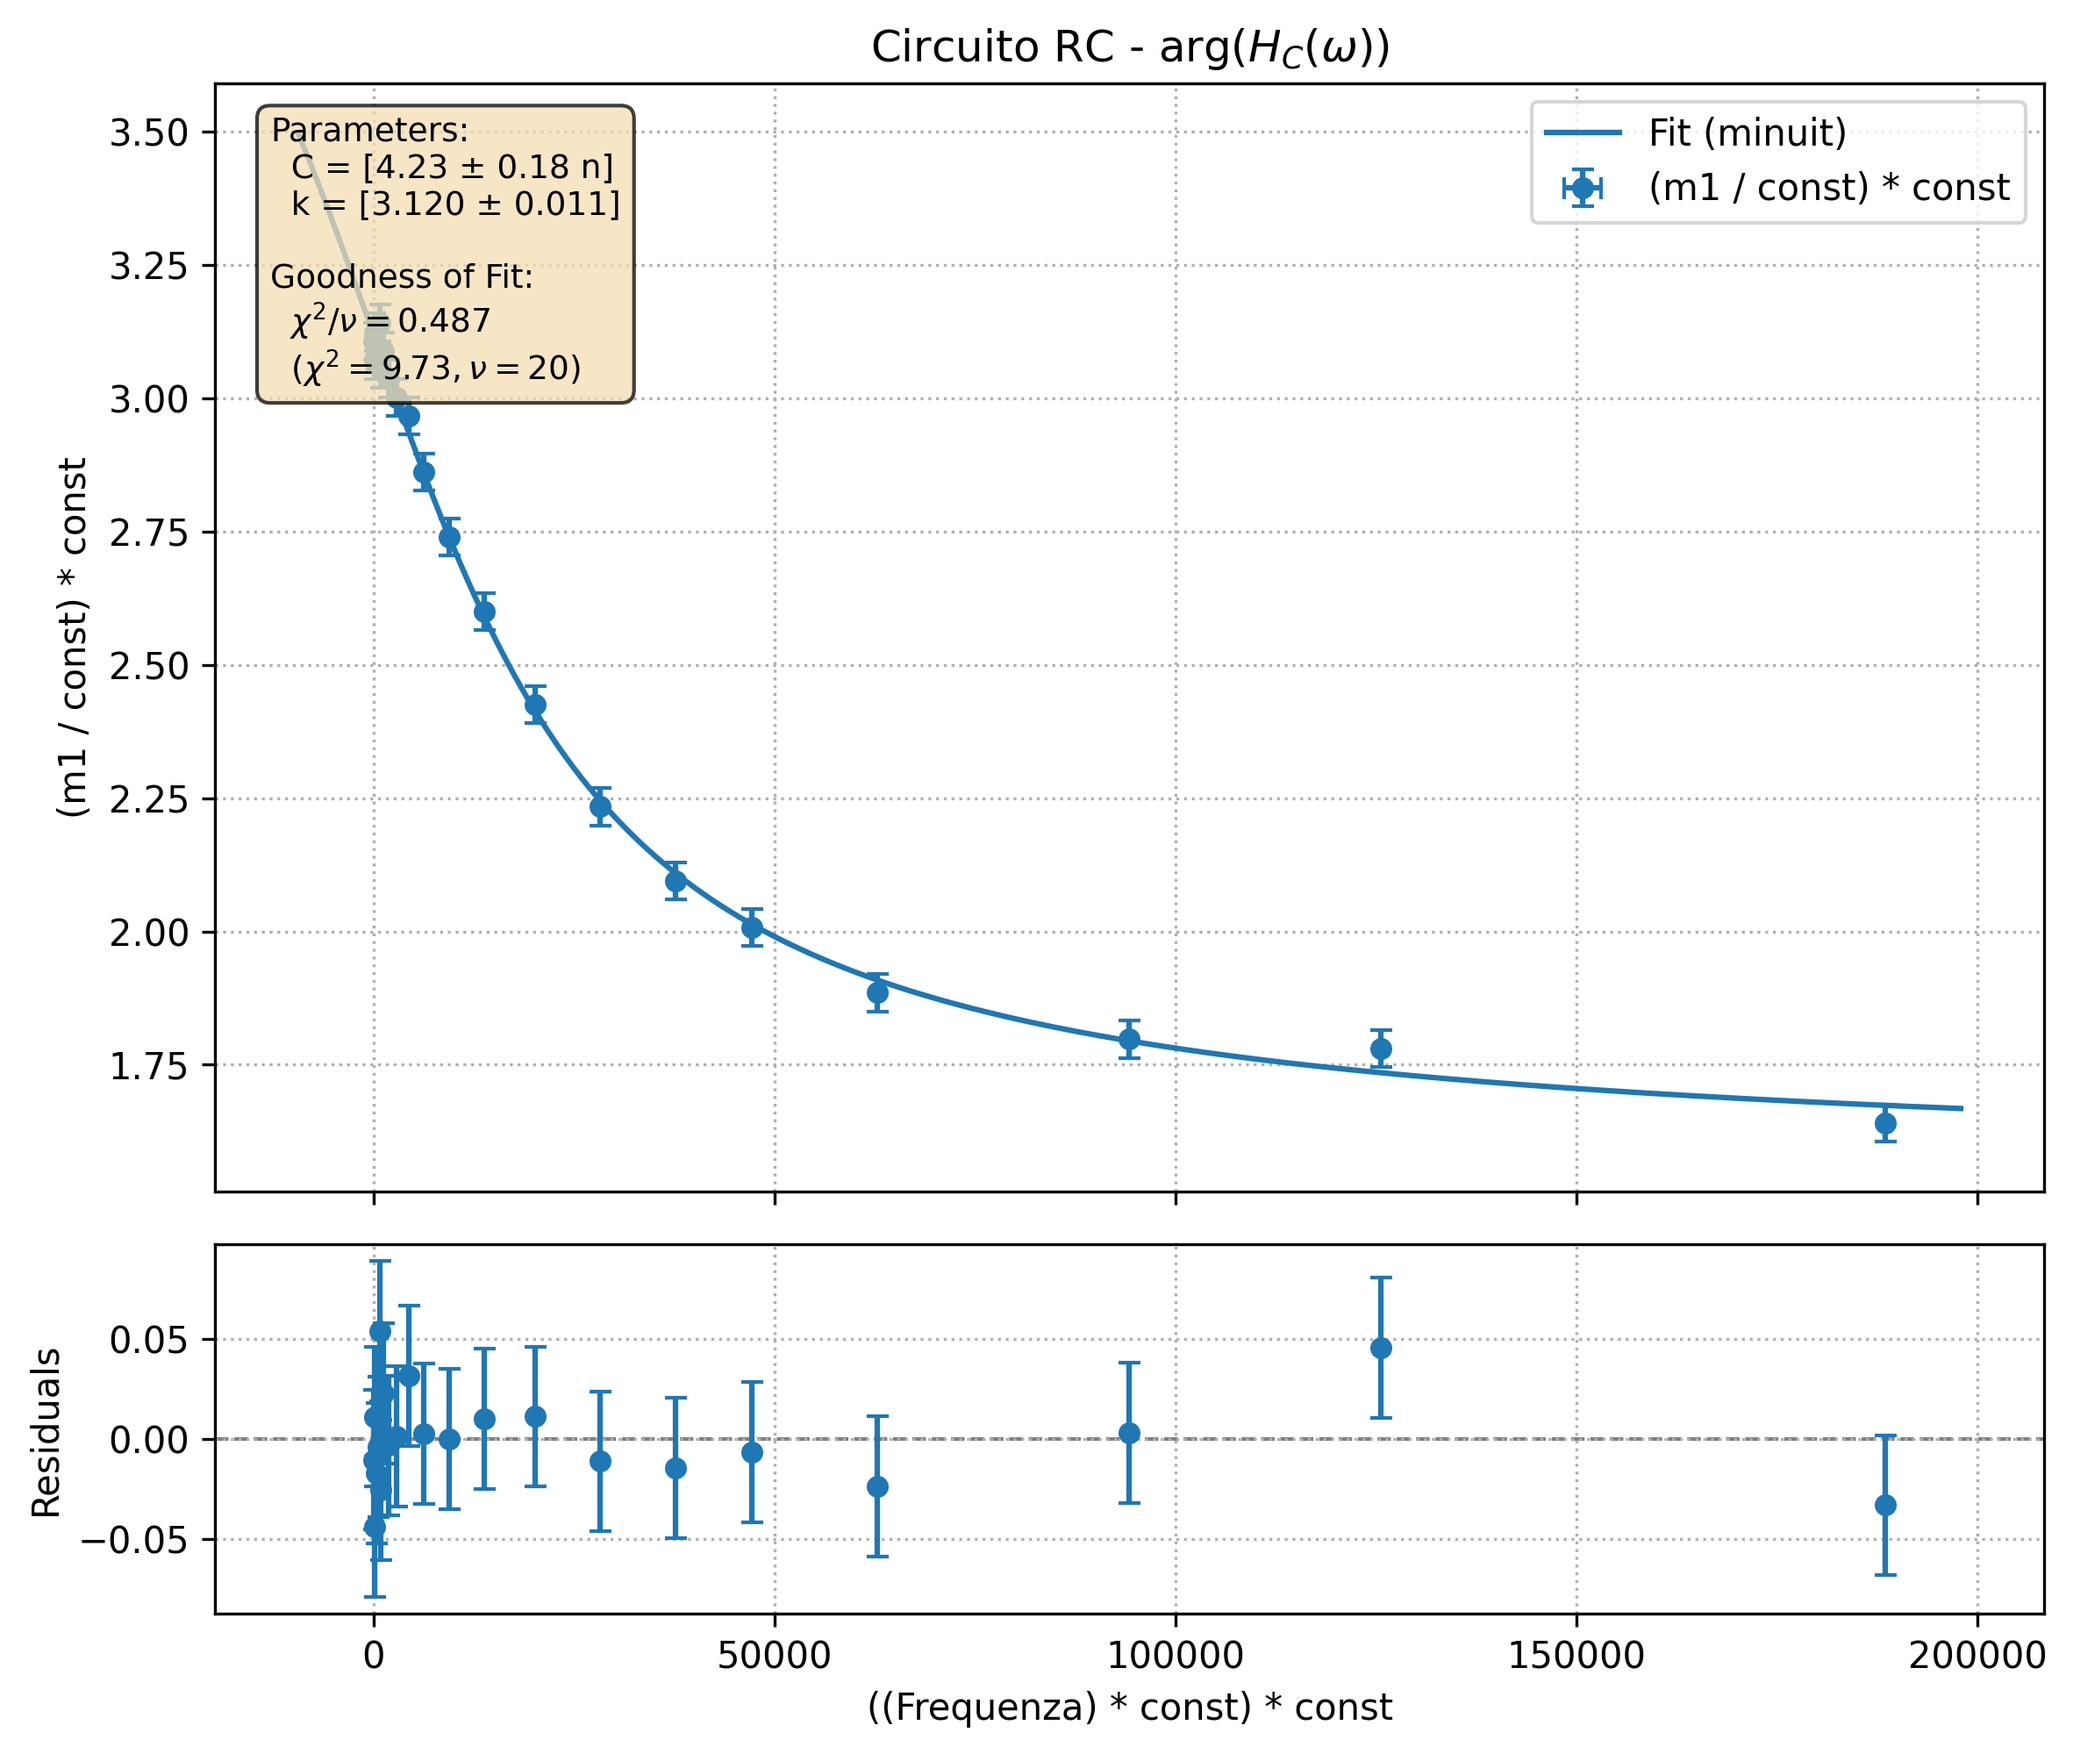
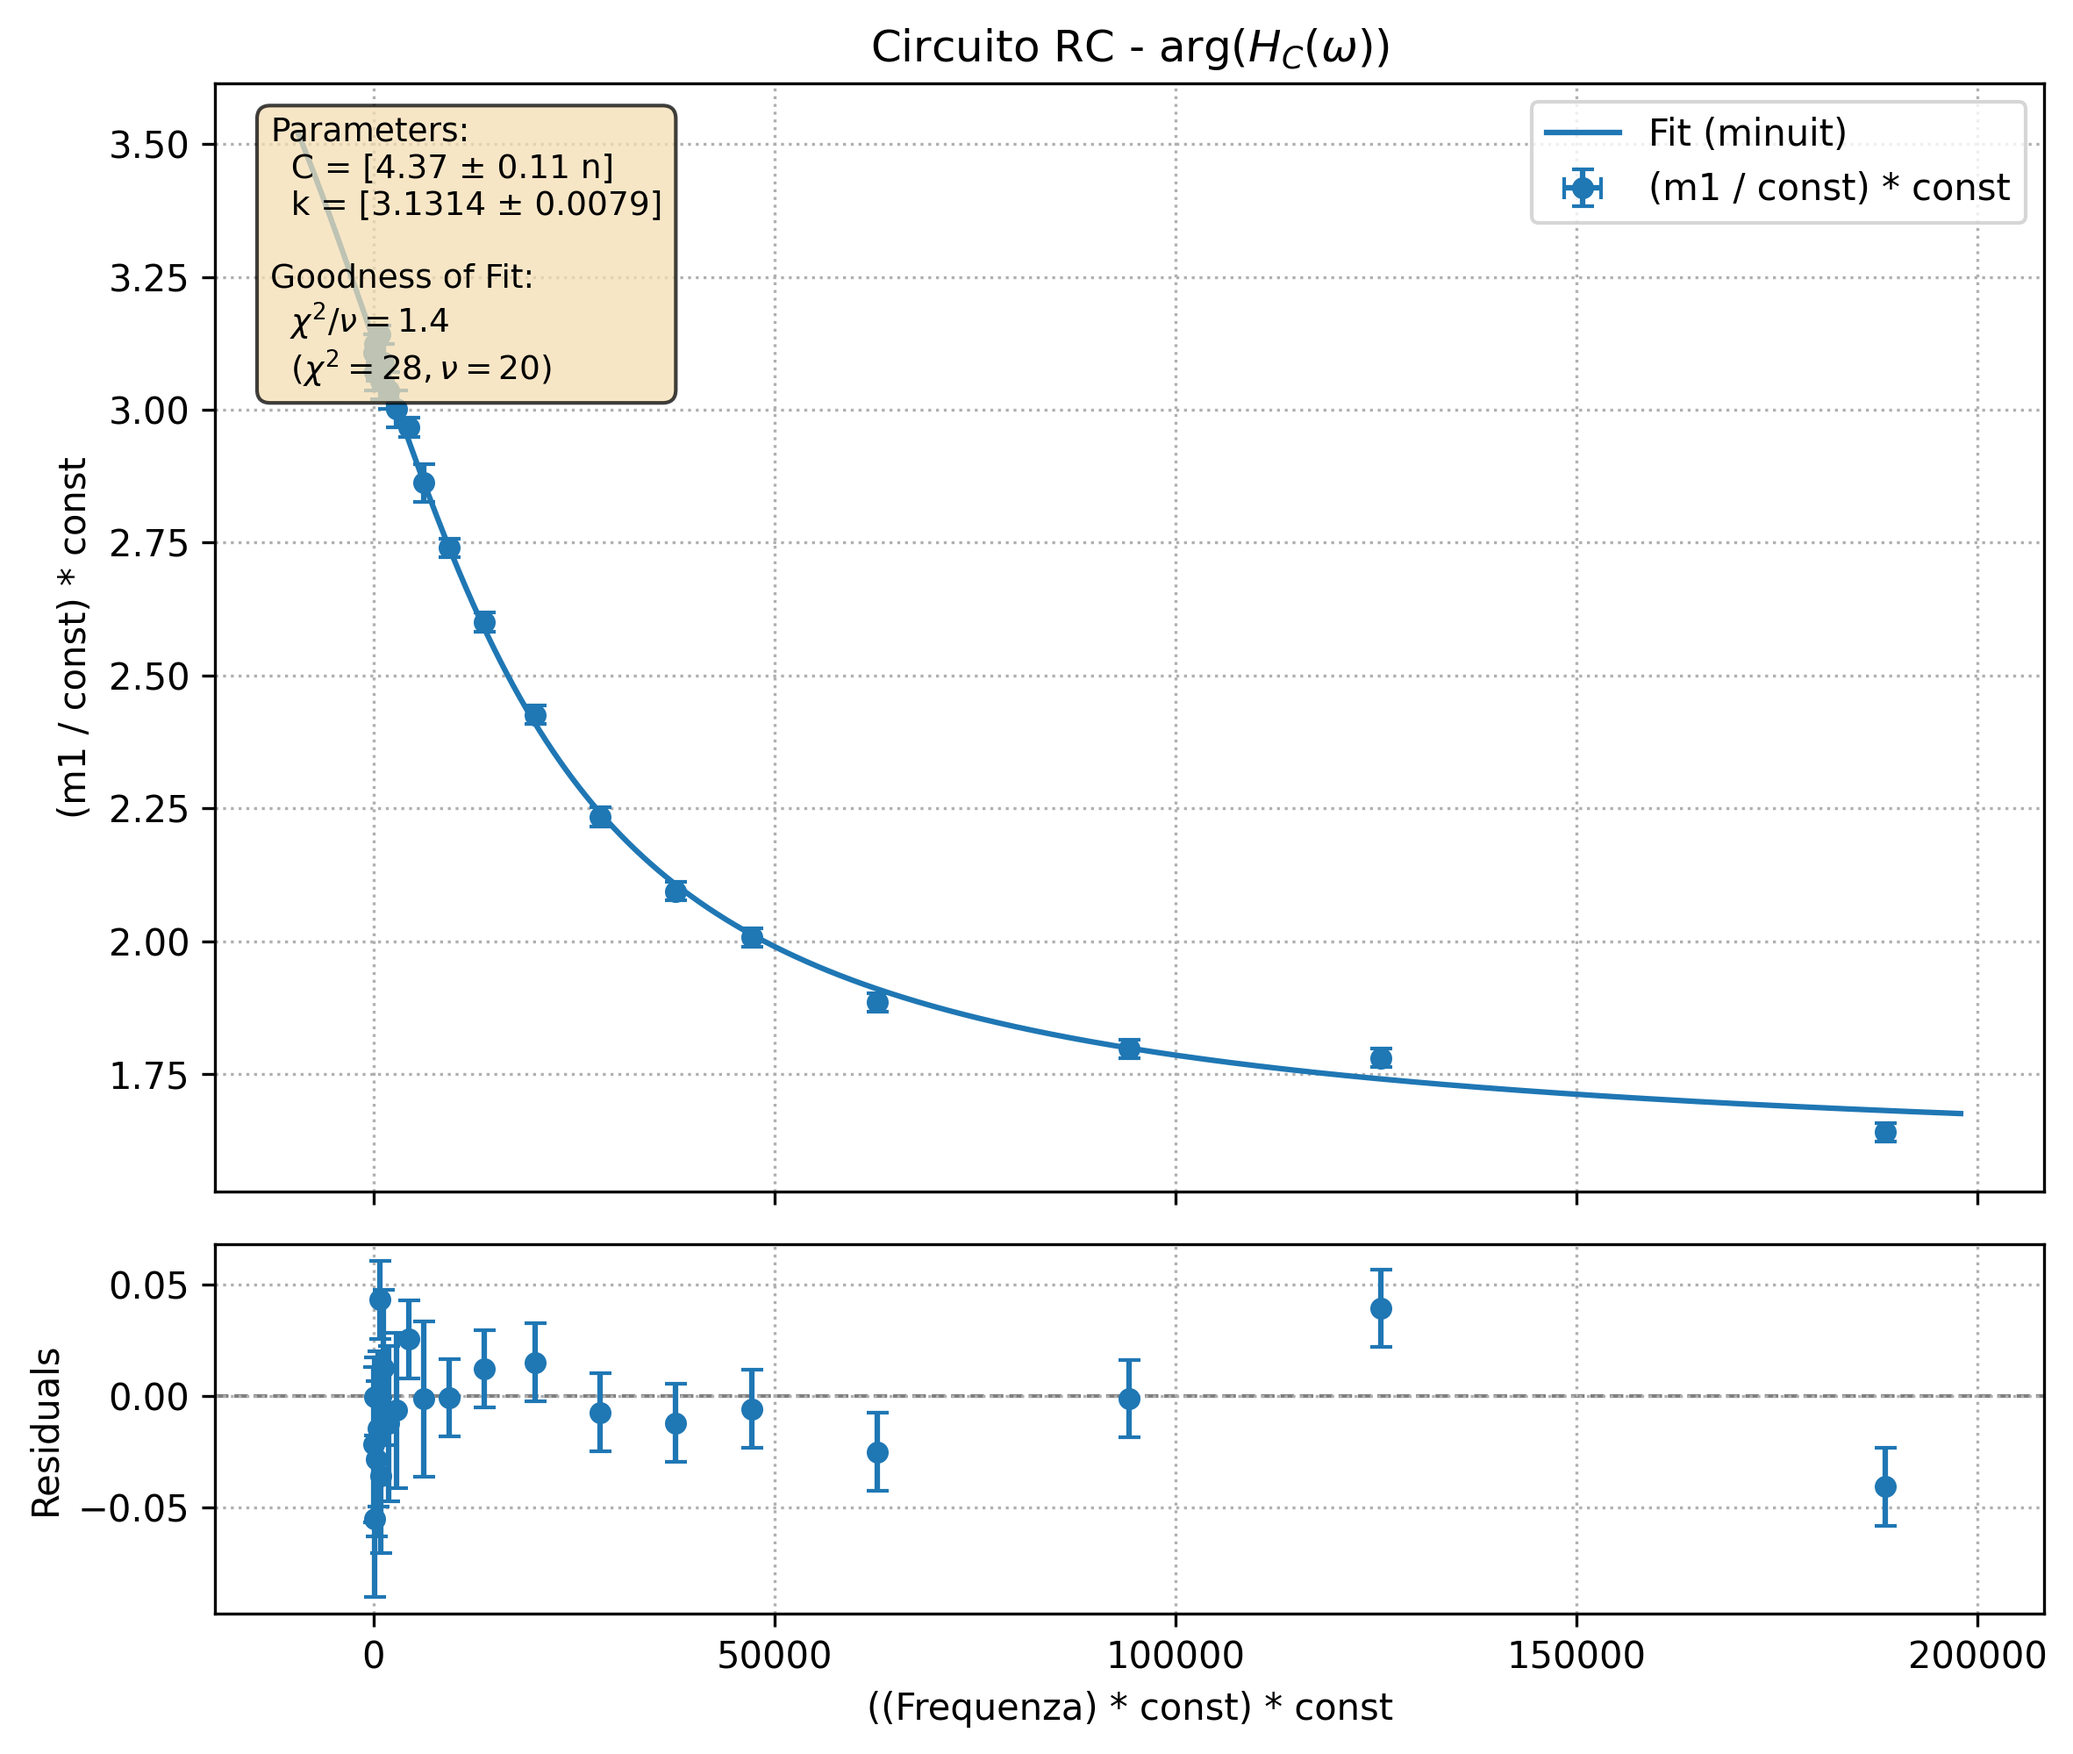
circuiti 3

diff --git a/circuiti_3/rl.py b/circuiti_3/rl.py
@@ -1,11 +1,12 @@
+import os
 import sys
-sys.path.append('../')
+sys.path.append(os.path.abspath(os.path.join(os.path.dirname(__file__), '../')))
 import numpy as np
 from burger_lib.guezzi import *
 
 R_nota = Measurement(10, 0.1, magnitude=3, unit='Ohm', name='R nota')
 R_L = Measurement(38.9, 0.1, unit='Ohm')
-L_guess = 20e-6
+L_guess = 50e-3
 
 # Ampiezza del generatore (fissa in tutte le misure, l'abbiamo misurata ogni volta e rimaneva la stessa) misurata dall'oscilloscopio
 amp_Vg = Measurement (4.16, 0.4, unit= 'V', name='ampiezza Vg')
@@ -21,15 +22,17 @@ amp_Vl_pp = Measurement(amp_Vl_pp_values, amp_Vl_pp_errors, unit='V', name='V_pp
 # Ampiezza picco-picco ai capi della resistenza, misurato con l'oscilloscopio misurando direttamente la tensione con la sonda
 amp_Vr_pp_values = [4.07, 4, 4.04, 3.90, 3.74, 3.50, 2.50, 1.80, 1.34, 0.98, 0.74, 0.52, 0.40, 0.184, 0.092]
 amp_Vr_pp_errors = [0.01, 0.02, 0.04, 0.02, 0.02, 0.02, 0.02, 0.02, 0.02, 0.02, 0.02, 0.02, 0.04, 0.002, 0.004]
-amp_Vr = Measurement(amp_Vr_pp_values, amp_Vr_pp_errors, magnitude=0, unit='V', name='V_pp resistenza')
+amp_Vr = Measurement(amp_Vr_pp_values, amp_Vr_pp_errors, unit='V', name='V_pp resistenza')
 # Fase Vc misurata dall'oscilloscopio (non a mano coi cursori ma automaticamente)
-fase_Vl_values = [-85, -95, -101, -105, -115, -120, -142, -155, -162, -167, -171, -174, -176, -179, 180]
+fase_Vl_values = [-90, -95, -101, -105, -115, -120, -142, -155, -162, -167, -171, -174, -176, -179, -180]
 fase_Vl_errors = [2, 2, 2, 6, 6, 1, 2, 1, 1, 2, 1, 1, 1, 1, 1]
 fase_Vl = Measurement(fase_Vl_values, fase_Vl_errors)
+fase_Vl = fase_Vl * np.pi / 180
 # Fase Vr misurata dall'oscilloscopio (non a mano coi cursori ma automaticamente)
-fase_Vr_values = [-8.5, -13, -16, -25, -32, -37.5, -62, -77, -87, -95, -101, -107, -116, -121, 122]
+fase_Vr_values = [-8.5, -13, -16, -25, -32, -37.5, -62, -77, -87, -95, -101, -107, -116, -121, -122]
 fase_Vr_errors = [0.5, 1, 1, 1, 1, 0.5, 1, 2, 2, 4, 5, 5, 5, 5, 5]
 fase_Vr = Measurement(fase_Vr_values, fase_Vr_errors)
+fase_Vr = fase_Vr * np.pi / 180
 
 #funzioni
 
@@ -46,20 +49,29 @@ def fit_func_RL_highpass(omega, L):
     term_wL = omega * L
     return term_wL / np.sqrt(R**2 + term_wL**2)
 
+def fase_Hr (omega, L, k) :
+    R = R_nota.value
+    return k - np.arctan(omega*L/R) #k atteso 0
+
+def fase_Hl (omega, L, k) :
+    R = R_nota.value
+    return k - np.arctan(omega*L/R) #k atteso pi/2
+
+
 #fit
 ampiezza_Hl = amp_Vl_pp / amp_Vg
 ampiezza_Hr = amp_Vr / amp_Vg
 mask = ampiezza_Hr.error > 0.015
-print(mask)
-fit_Hc = perform_fit(pulsazione, ampiezza_Hr, fit_func_RL_lowpass, p0=[L_guess], 
-                     parameter_names=['L'], method='minuit', minuit_limits={'L': (1e-5, 1e-1)},
-                     calculate_stats=True, mask=mask)
-plot_fit(fit_Hc, plot_residuals=True, title='Circuito RL - $H_r$', save_path='./grafici/rl_passa_basso.png', show_params=True, show_stats=True)
-print(fit_Hc.parameters['L'].value, fit_Hc.parameters['L'].error)
+fit_Hr = perform_fit(pulsazione, ampiezza_Hr, fit_func_RL_lowpass, p0=[L_guess], method='minuit', minuit_limits={'L': (1e-5, 1e-1)}, mask=mask)
+plot_fit(fit_Hr, plot_residuals=True, title='Circuito RL - $H_r$', save_path='./grafici/rl_passa_basso.png', show_params=True, show_stats=True)
 
-fit_Hr = perform_fit(pulsazione, ampiezza_Hl, fit_func_RL_highpass, p0=[L_guess],
-                     parameter_names=['L'], method='minuit', minuit_limits={'L': (1e-5, None)},
-                     calculate_stats=True, mask=mask)
-plot_fit(fit_Hr, plot_residuals=True, title='Circuito RL - $H_l$', save_path='./grafici/rl_passa_alto.png', show_params=True, show_stats=True)
-print(fit_Hr.parameters['L'].value, fit_Hr.parameters['L'].error)
-print(fit_Hc.parameters['L'],  fit_Hr.parameters['L'])
+fit_Hl = perform_fit(pulsazione, ampiezza_Hl, fit_func_RL_highpass, p0=[L_guess], method='minuit', minuit_limits={'L': (1e-5, None)}, mask=mask)
+plot_fit(fit_Hl, plot_residuals=True, title='Circuito RL - $H_l$', save_path='./grafici/rl_passa_alto.png', show_params=True, show_stats=True)
+
+fit_fase_Hl = perform_fit(pulsazione, fase_Vl, func = fase_Hl, p0=[L_guess, np.pi/2], method='minuit', minuit_limits={'L': (-1,1), 'k':(-10, 10)})
+plot_fit(fit_fase_Hl, plot_residuals=True, show_params=True, show_stats=True, title='Circuito RL - $\\arg(H_L(\\omega))$', save_path='./grafici/rl_fase_hl.png')
+print(fit_fase_Hl.parameters)
+
+fit_fase_Hr = perform_fit(pulsazione, fase_Vr, fase_Hr, p0=[L_guess, 0.0], method='minuit', minuit_limits={'L': (-1,1), 'k':(-10, 10)})
+plot_fit(fit_fase_Hr, plot_residuals=True, show_params=True, show_stats=True, title='Circuito RL - $\\arg(H_R(\\omega))$', save_path='./grafici/rl_fase_hr.png')
+print(fit_fase_Hr.parameters)

diff --git a/circuiti_3/rc.py b/circuiti_3/rc.py
@@ -25,13 +25,13 @@ amp_Vr_pp_errors = [0.4, 0.4, 0.4, 0.8, 2, 2, 2, 4, 2, 2, 2, 30, 40, 40, 40, 40,
 amp_Vr = Measurement(amp_Vr_pp_values, amp_Vr_pp_errors, magnitude=-3, unit='V', name='V_pp resistenza')
 # Fase Vc misurata dall'oscilloscopio (automaticamente)
 fase_Vc_values = [178, 176, 179, 177, 177, 180, 175, 177, 174, 172, 170, 164, 157, 149, 139, 128, 120, 115, 108, 103, 102, 94] #gradi
-fase_Vc_errors = [1, 1, 1, 1, 1, 1, 1, 1, 1, 1, 1, 1, 1, 1, 1, 1, 1, 1, 1, 1, 1, 1] #gradi error
-fase_Vc = Measurement(fase_Vc_values, 2)
+fase_Vc_errors = [2, 2, 1, 2, 2, 1, 2, 2, 2, 2, 1, 2, 1, 1, 1, 1, 1, 1, 1, 1, 1, 1] #gradi error
+fase_Vc = Measurement(fase_Vc_values, fase_Vc_errors)
 fase_Vc = fase_Vc / 180 * np.pi
 # Fase Vr misurata dall'oscilloscopio (automaticamente)
 fase_Vr_values = [92.1, 89.6, 88.9, 90.4, 88.2, 88.6, 88.0, 87.0, 84.9, 84.2, 79.6, 74.5, 67.6, 59.3, 47.9, 38.8, 31.1, 25.9, 19.4, 13.5, 10.1, 6.49] #gradi
 fase_Vr_errors = [2, 1, 0.4, 0.2, 0.3, 0.3, 0.3, 0.3, 0.3, 0.3, 0.3, 0.3, 0.3, 0.3, 0.3, 0.3, 0.3, 0.3, 0.3, 0.3, 0.3, 0.05] #gradi error
-fase_Vr = Measurement(fase_Vr_values, 2)
+fase_Vr = Measurement(fase_Vr_values, np.array(fase_Vr_errors)*3)
 fase_Vr = fase_Vr / 180 * np.pi
 
 #funzioni

diff --git a/burger_lib/guezzi/utils.py b/burger_lib/guezzi/utils.py
@@ -44,7 +44,7 @@ def get_si_prefix(value: float) -> Tuple[str, int, float]:
     
     # Use Decimal for potentially higher precision in edge cases
     d_value = decimal.Decimal(value)
-    exponent = d_value.log10().to_integral_value(rounding=decimal.ROUND_FLOOR) # Floor(log_10(value))
+    exponent = d_value.adjusted()
 
     # Find the largest SI exponent less than or equal to the value's exponent
     best_exponent = 0 # Default to base unit
